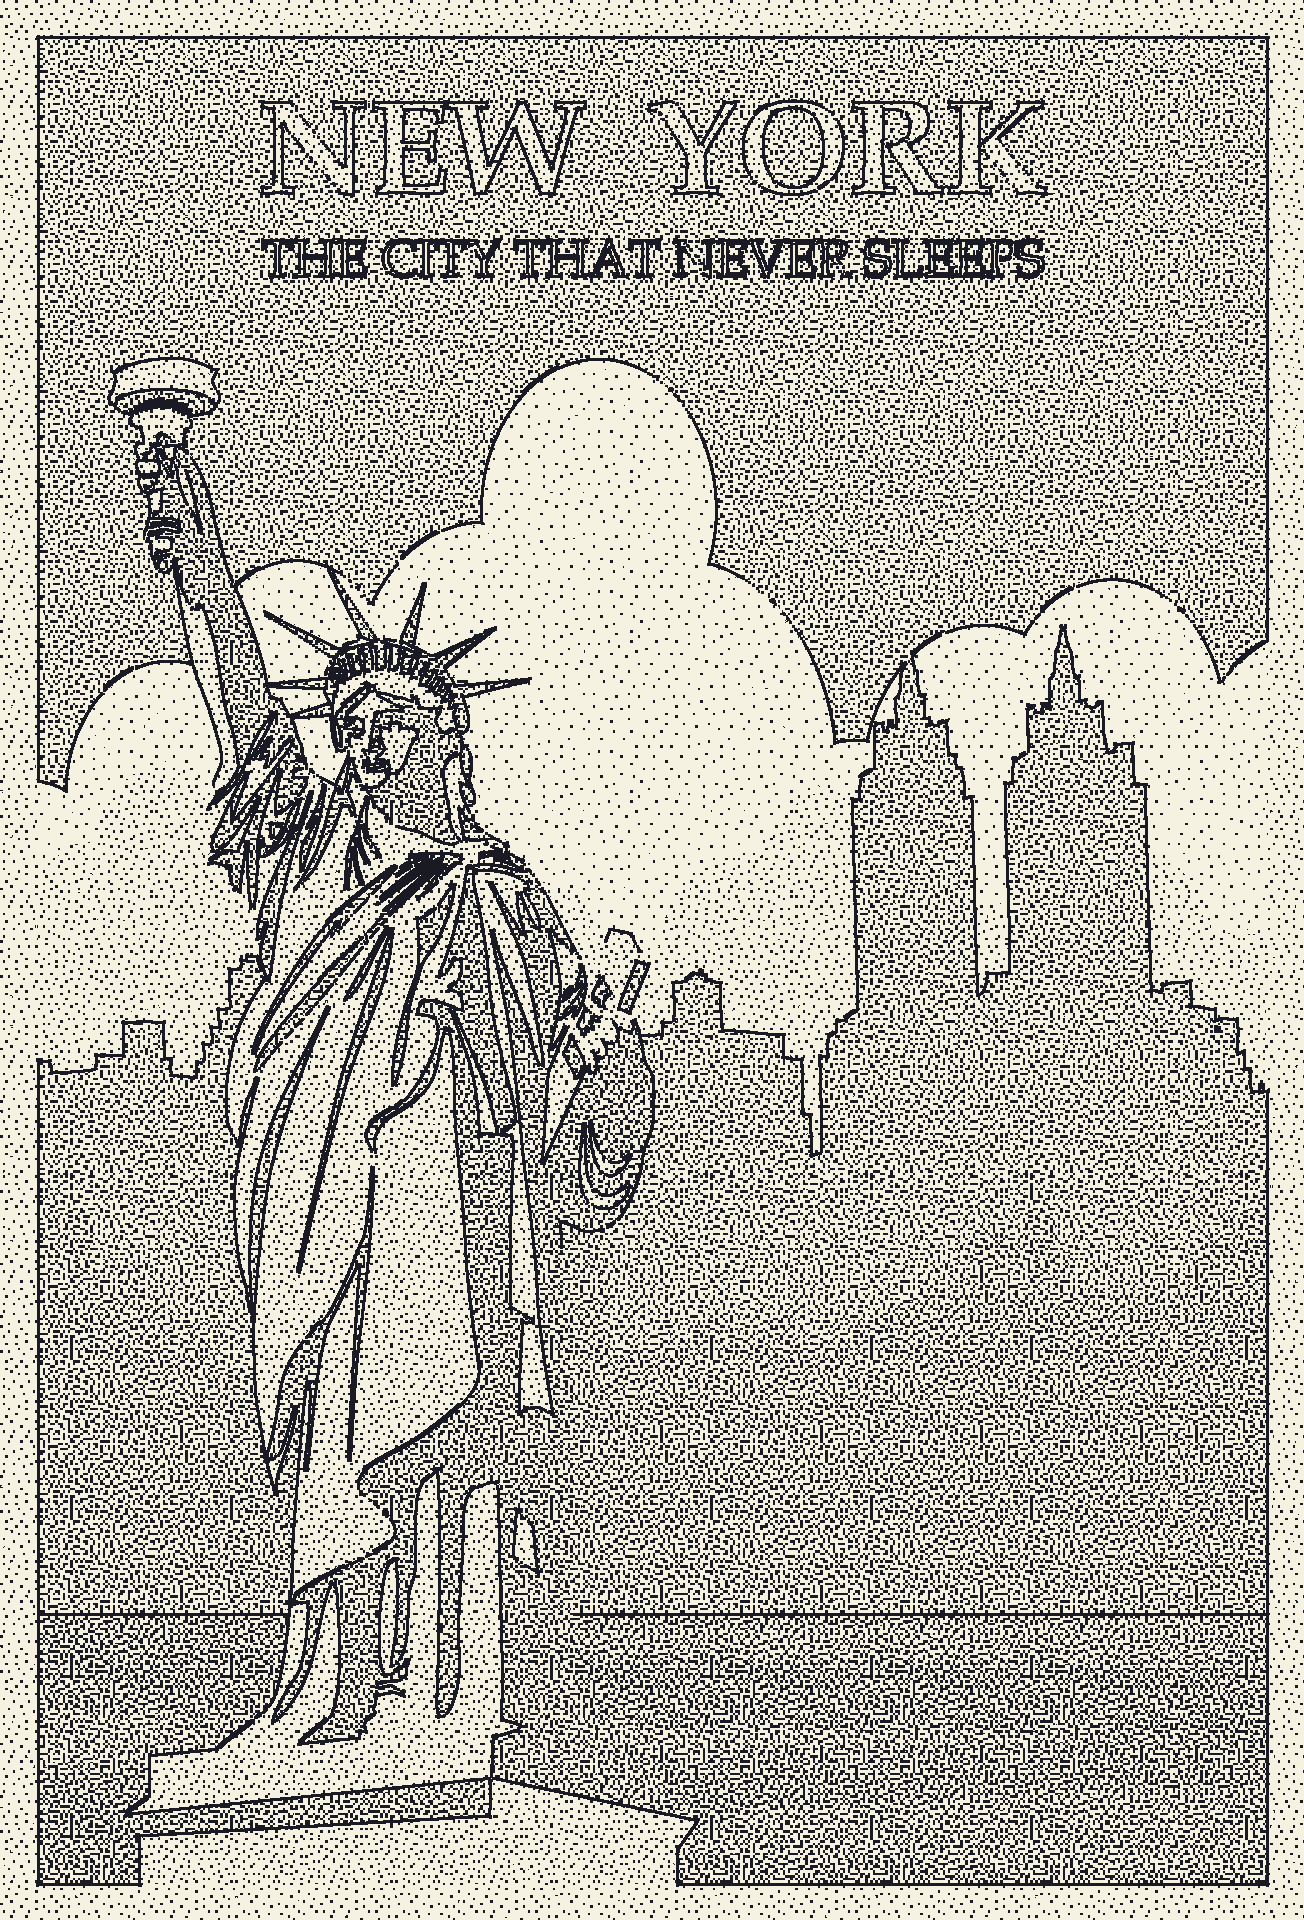
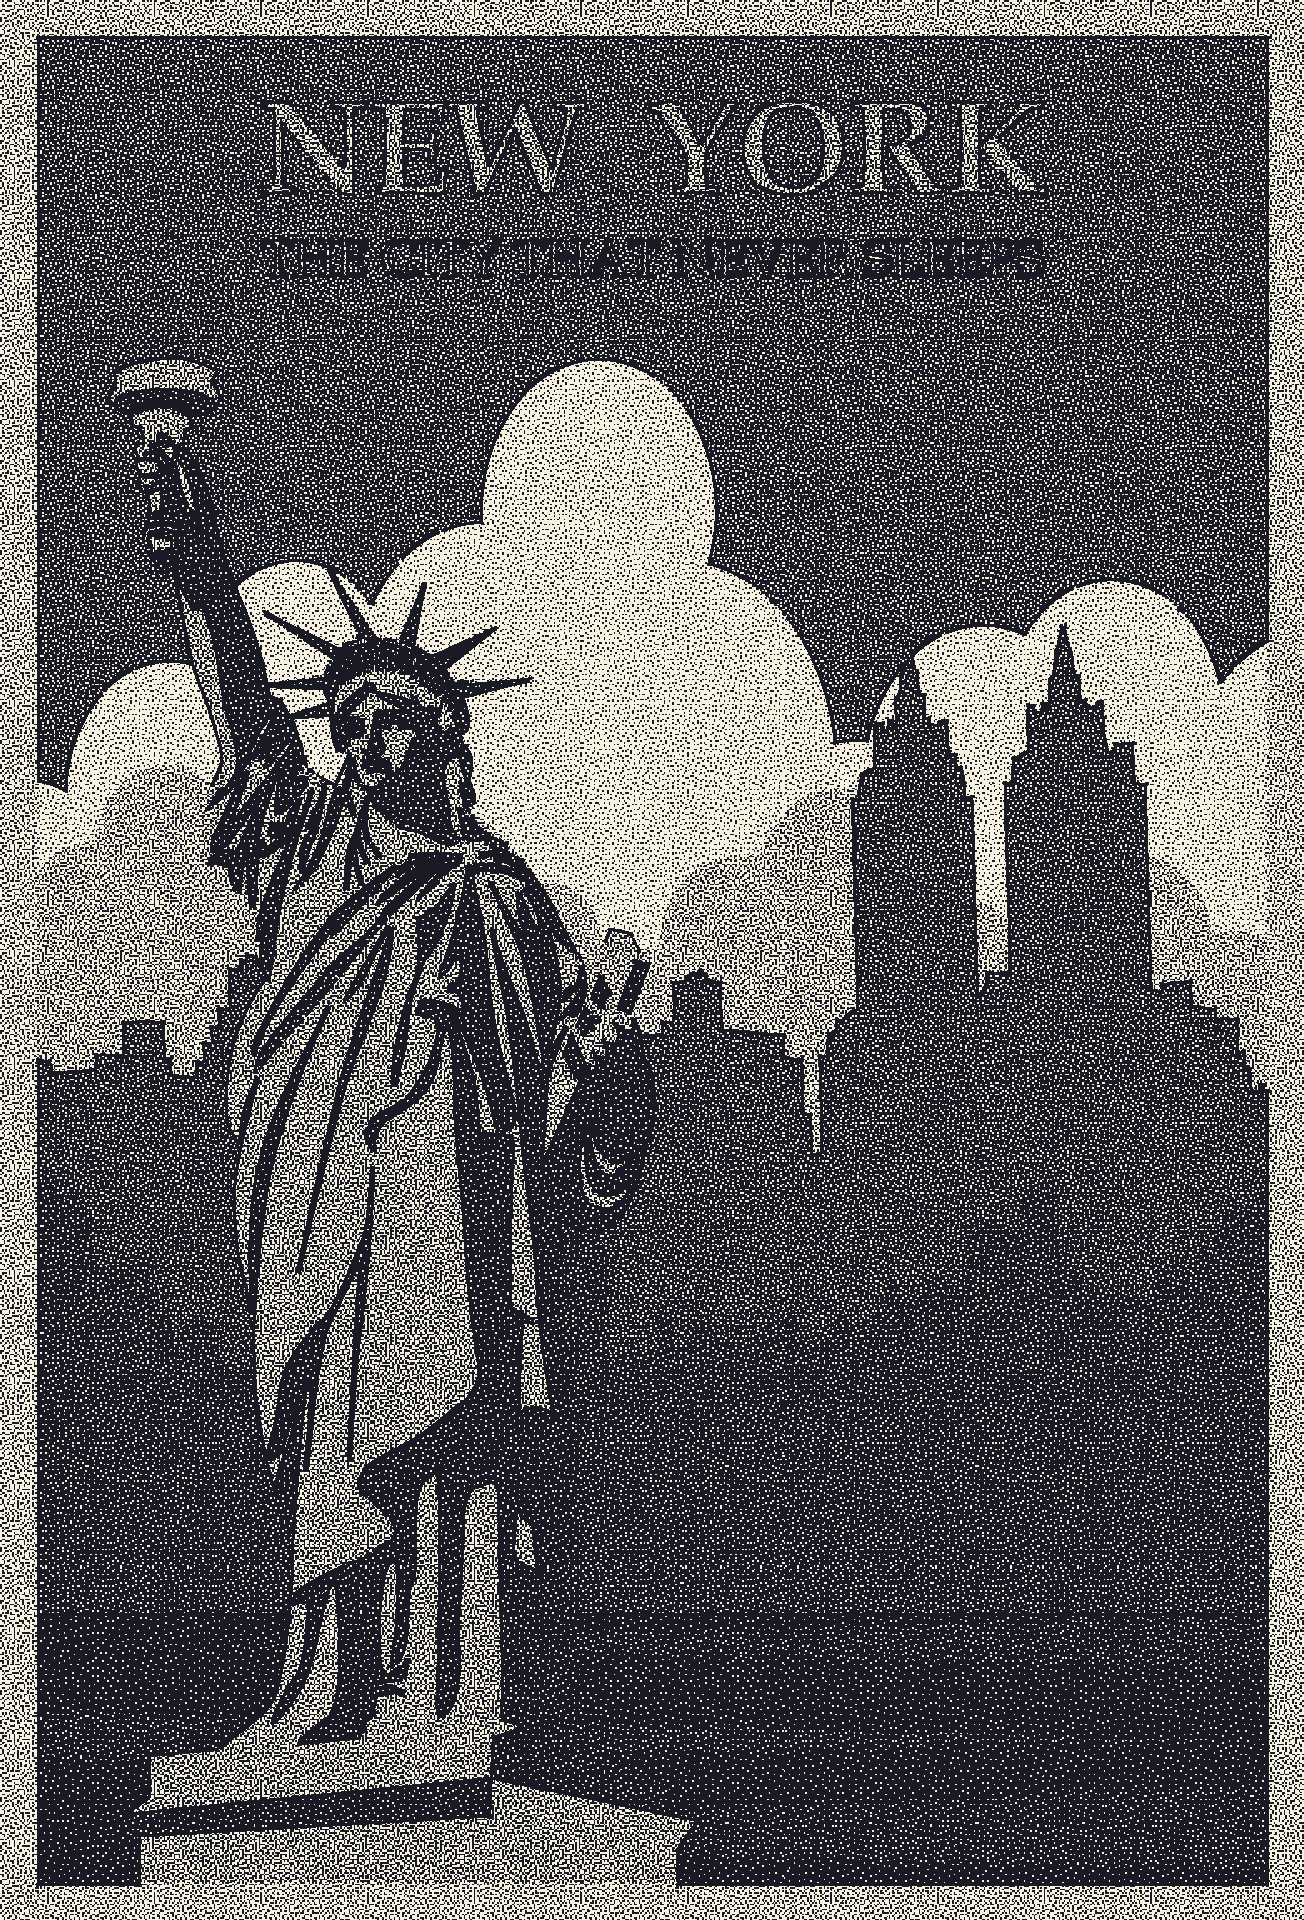
organized user inputs into their own section

diff --git a/imagine.py b/imagine.py
@@ -3,6 +3,21 @@ from PIL import Image
 import pandas as pd
 import numpy as np
 import math
+
+#######################           USER INPUTS           ########################
+IMAGE_ADDRESS = r'example.jpg'
+
+BLUR = True # (bool) whether or not to gaussian blur before edge detection
+THICKEN_LINES = True # (bool) whether or not to thicken lines
+
+LOW_THRESH = 0.1 # (0-1) low threshold for double thresholding
+HIGH_THRESH = 0.2 # (0-1) high threshold for double thresholding
+THICKEN_FACTOR = 1 # (int) radius in pixels of thickened line
+GAMMA_FACTOR = 0.2 # (float) gamma correction (<1 darkens, >1 lightens)
+DITHER_COEFF = 0.6 # (0-1) controls the frequency of sampling of noise image
+LIGHT_COLOR = [245, 242, 225] # (rgb) light color of final image
+DARK_COLOR = [25, 26, 36] # (rgb) dark color of final image
+
 ########################           FUNCTIONS           #########################
 def make_kernel(radius: int, sigma: float):
     ''' 
@@ -213,7 +228,6 @@ def make_image(in_img: np.array):
     return out_img
 
 ######################           OPENING IMAGE           #######################
-IMAGE_ADDRESS = r'example.jpg'
 img = np.array(Image.open(IMAGE_ADDRESS))
 if img.shape[2] == 4:
     img = np.delete(img, 3, 2)
@@ -225,8 +239,11 @@ bw_img = np.uint8(img.mean(axis=2))
 ######################           EDGE DETECTION           ######################
 print('# detecting edges...')
 # Gaussian blur
-print('*   gaussian blurring')
-gb_img = gaussian_blur(bw_img)
+if BLUR:
+    print('*   gaussian blurring')
+    gb_img = gaussian_blur(bw_img)
+else:
+    gb_img = bw_img
 # intensity gradient
 print('*   finding intensity gradient')
 sf_img, th_img = sobel_filter(gb_img)
@@ -235,26 +252,29 @@ print('*   magnitude thresholding')
 mt_img = magnitude_thresholding(sf_img, th_img)
 # double thresholding
 print('*   double thresholding')
-dt_img = double_threshold(mt_img, 0.1, 0.2)
+dt_img = double_threshold(mt_img, LOW_THRESH, HIGH_THRESH)
 # hysteresis
 print('*   hysteresis')
 hy_img = 255 - hysteresis(dt_img)
 # line thickening
-print('*   thickening lines')
-tl_img = line_thickener(hy_img, 1)
+if THICKEN_LINES:
+    print('*   thickening lines')
+    tl_img = line_thickener(hy_img, THICKEN_FACTOR)
+else:
+    tl_img = hy_img
 
 ########################           DITHERING           #########################
 print('# dithering')
 print('*   adjusting brightness...')
-gc_img = gamma_correct(bw_img, 1.0)
+gc_img = gamma_correct(bw_img, GAMMA_FACTOR)
 print('*   blue noise dithering...')
-di_img = dither(gc_img, coeff = 0.4)
+di_img = dither(gc_img, DITHER_COEFF)
 
 ########################           COMBINING           #########################
 combined_img = di_img - (255 - tl_img)
 combined_img[combined_img < 0] = 0
 
-colored = np.uint8(color_filter(combined_img, [245, 242, 225], [25, 26, 36]))
+colored = np.uint8(color_filter(combined_img, LIGHT_COLOR, DARK_COLOR))
 
 final = Image.fromarray(colored)
 final = final.save('final_img.png')
